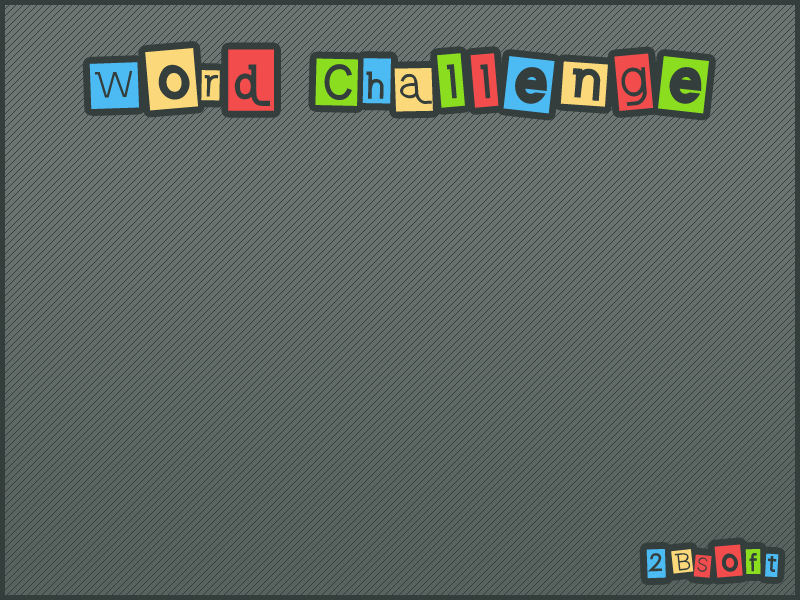
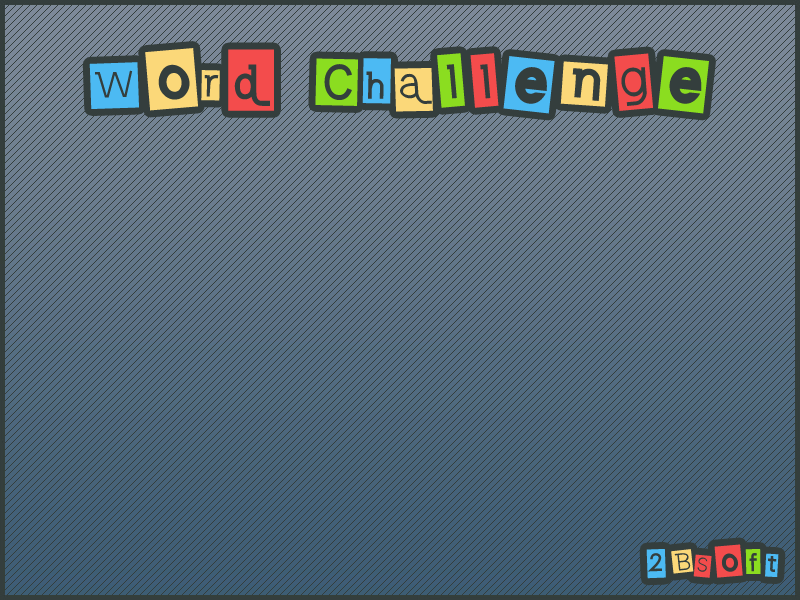
Big Balls: Correccion de detalles basados en el feedback de ingenieria08 Word Challenge: Fondo nuevo y modificaciones acordes al menu.

diff --git a/trunk/Big Balls/src/Ball.java b/trunk/Big Balls/src/Ball.java
@@ -177,8 +177,7 @@ public class Ball extends Sprite {
 	    as.addAttribute(TextAttribute.FONT, font);
 	    
 	    //Subrayar si es un 9, 6, W o M
-	    if(text.equals("9") || text.equals("6") || text.equals("W") 
-	    		|| text.equals("M")) {
+	    if(doUnderline(text)) {
 	    	as.addAttribute(TextAttribute.UNDERLINE, TextAttribute.UNDERLINE_ON);
 	    }
 	    
@@ -190,6 +189,14 @@ public class Ball extends Sprite {
 		g2d.drawString(as.getIterator(), (image.getWidth() / 2) - (textWidth / 2), 
 				(image.getHeight() / 2) + 12);
 		g2d.dispose();
+	}
+	
+	private boolean doUnderline (String text) {
+		if(text.equals("9") || text.equals("6") || text.equals("66") 
+	    		|| text.equals("99") || text.equals("W") || text.equals("M")){
+			return true;
+		}
+		return false;
 	}
 	
 	/**

diff --git a/trunk/Big Balls/src/Level.java b/trunk/Big Balls/src/Level.java
@@ -407,7 +407,13 @@ public class Level extends GameObject implements Observer {
 	 */
 	@Override
 	public final void update(final long elapsedTime) {
-		playfield.update(elapsedTime);
+		playfield.update(elapsedTime);		
+		
+		//Si presiona la imagen salir vuelve al menu
+		if (click() && timerEndLevel.isActive()) {
+		    this.finish();
+		}
+		
 		//Logica del juego
 		if ((click()) && (!timerEndLevel.isActive())) {
 			Ball ballsel = (Ball) this.checkPosMouse(this.ballGroup, true);
